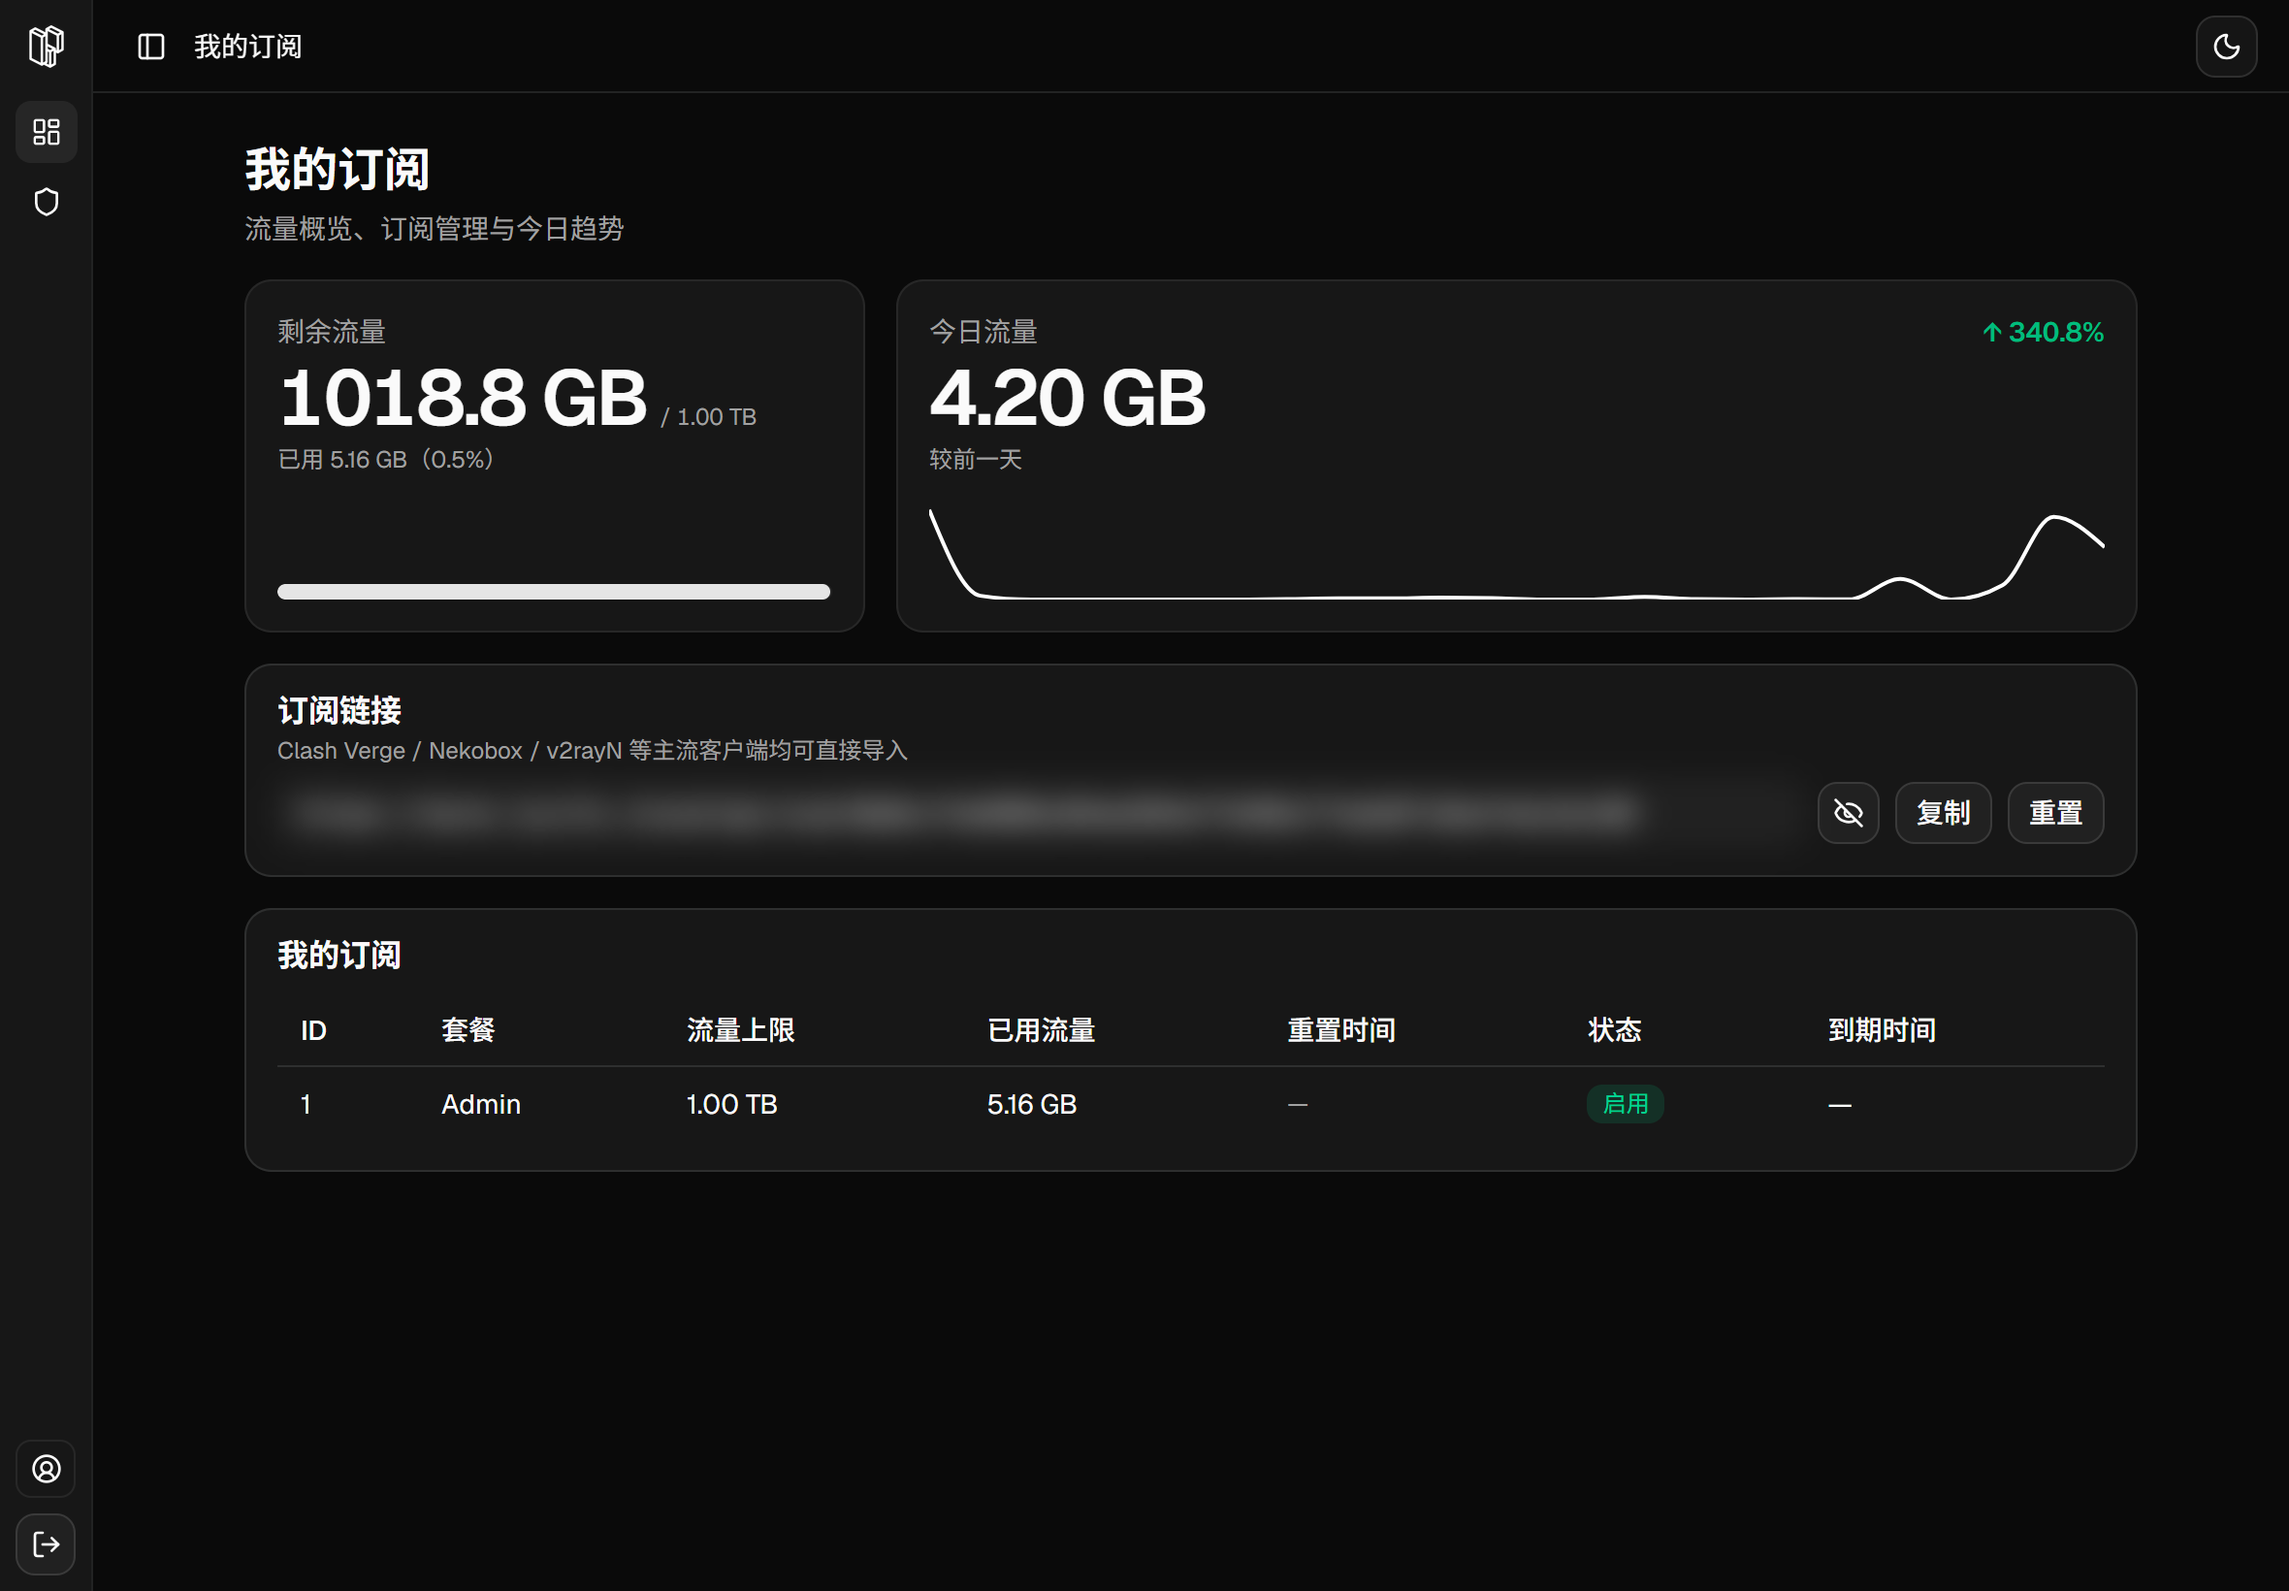
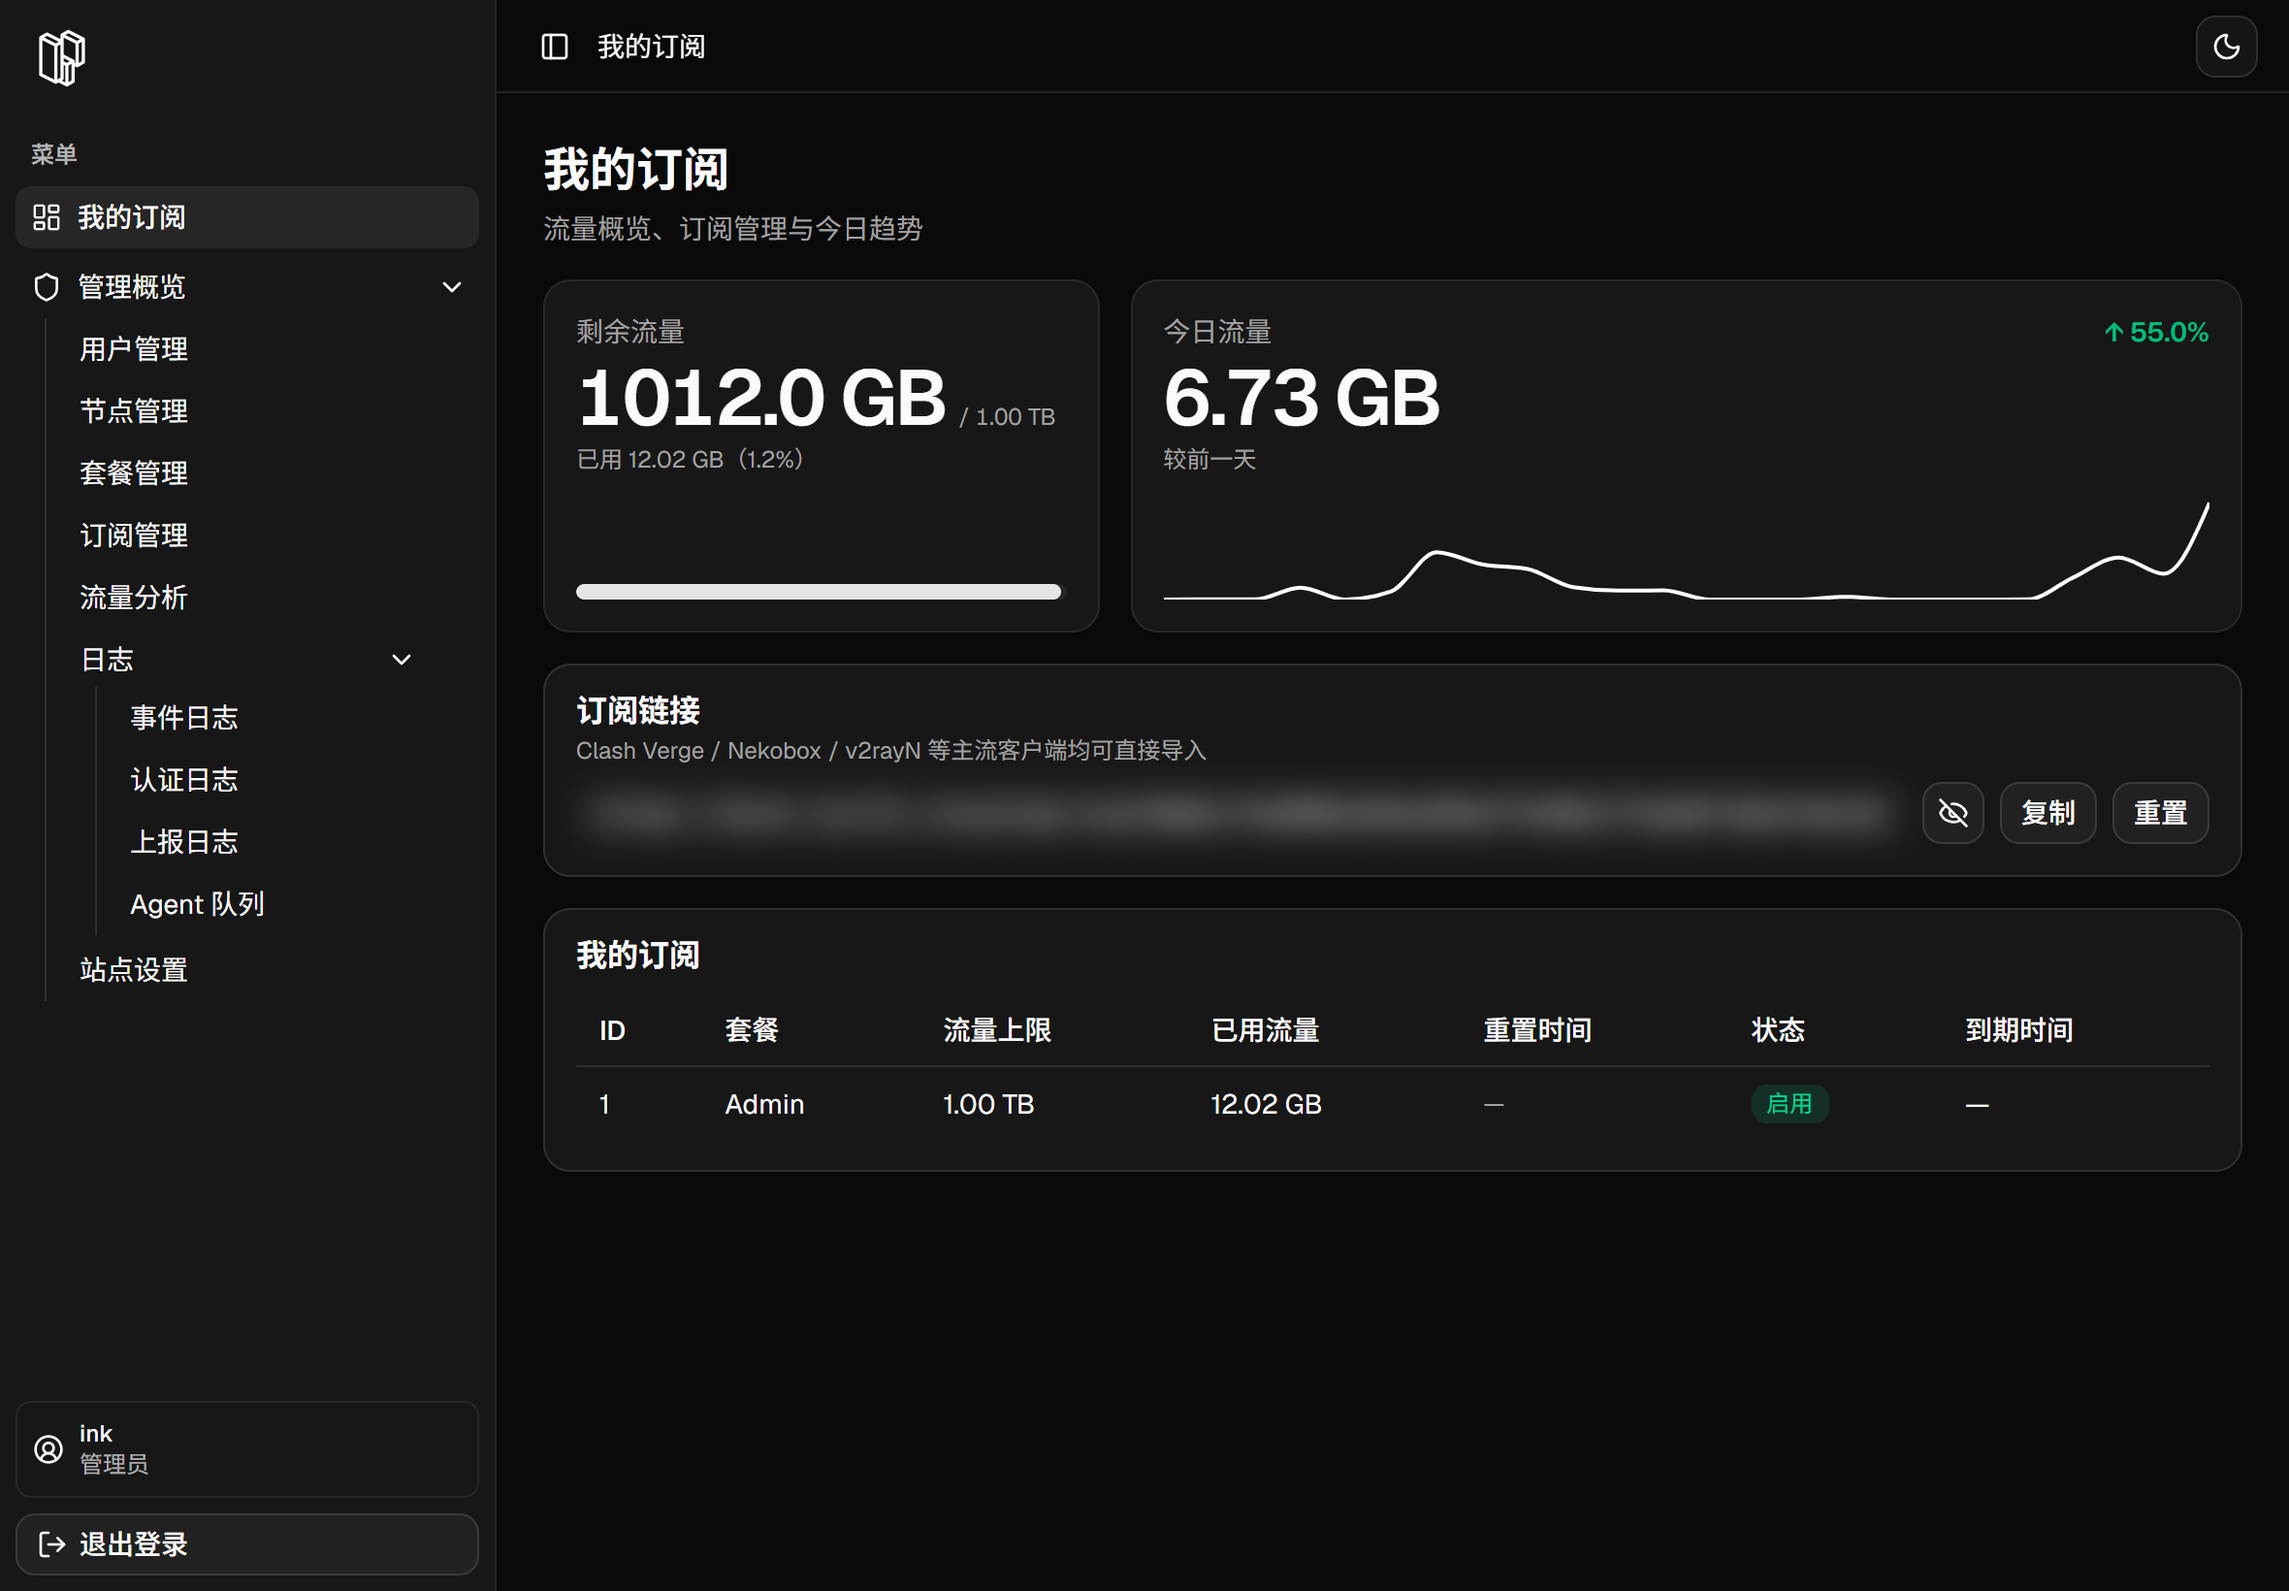
style: 优化节点卡片宽度

diff --git a/app/(dashboard)/admin/nodes/page.tsx b/app/(dashboard)/admin/nodes/page.tsx
@@ -2805,7 +2805,7 @@ export default function AdminNodesPage() {
 
         {/* 节点卡片网格 */}
         {loading ? (
-          <div className="grid gap-3 md:grid-cols-2 lg:grid-cols-3 xl:grid-cols-4">
+          <div className="grid gap-3 md:grid-cols-2 xl:grid-cols-3 2xl:grid-cols-4">
             {Array.from({ length: 8 }).map((_, index) => (
               <Card key={index} className="h-48 overflow-hidden">
                 <CardContent className="flex h-full flex-col justify-between p-3">
@@ -2846,7 +2846,7 @@ export default function AdminNodesPage() {
               items={rows.map((row) => row.id)}
               strategy={rectSortingStrategy}
             >
-              <div className="grid gap-3 md:grid-cols-2 lg:grid-cols-3 xl:grid-cols-4">
+              <div className="grid gap-3 md:grid-cols-2 xl:grid-cols-3 2xl:grid-cols-4">
                 {rows.map((row) => {
                   const displayRow = {
                     ...row,
@@ -2883,7 +2883,7 @@ export default function AdminNodesPage() {
             </SortableContext>
           </DndContext>
         ) : (
-          <div className="grid gap-3 md:grid-cols-2 lg:grid-cols-3 xl:grid-cols-4">
+          <div className="grid gap-3 md:grid-cols-2 xl:grid-cols-3 2xl:grid-cols-4">
             {rows.map((row) => {
               const displayRow = {
                 ...row,
